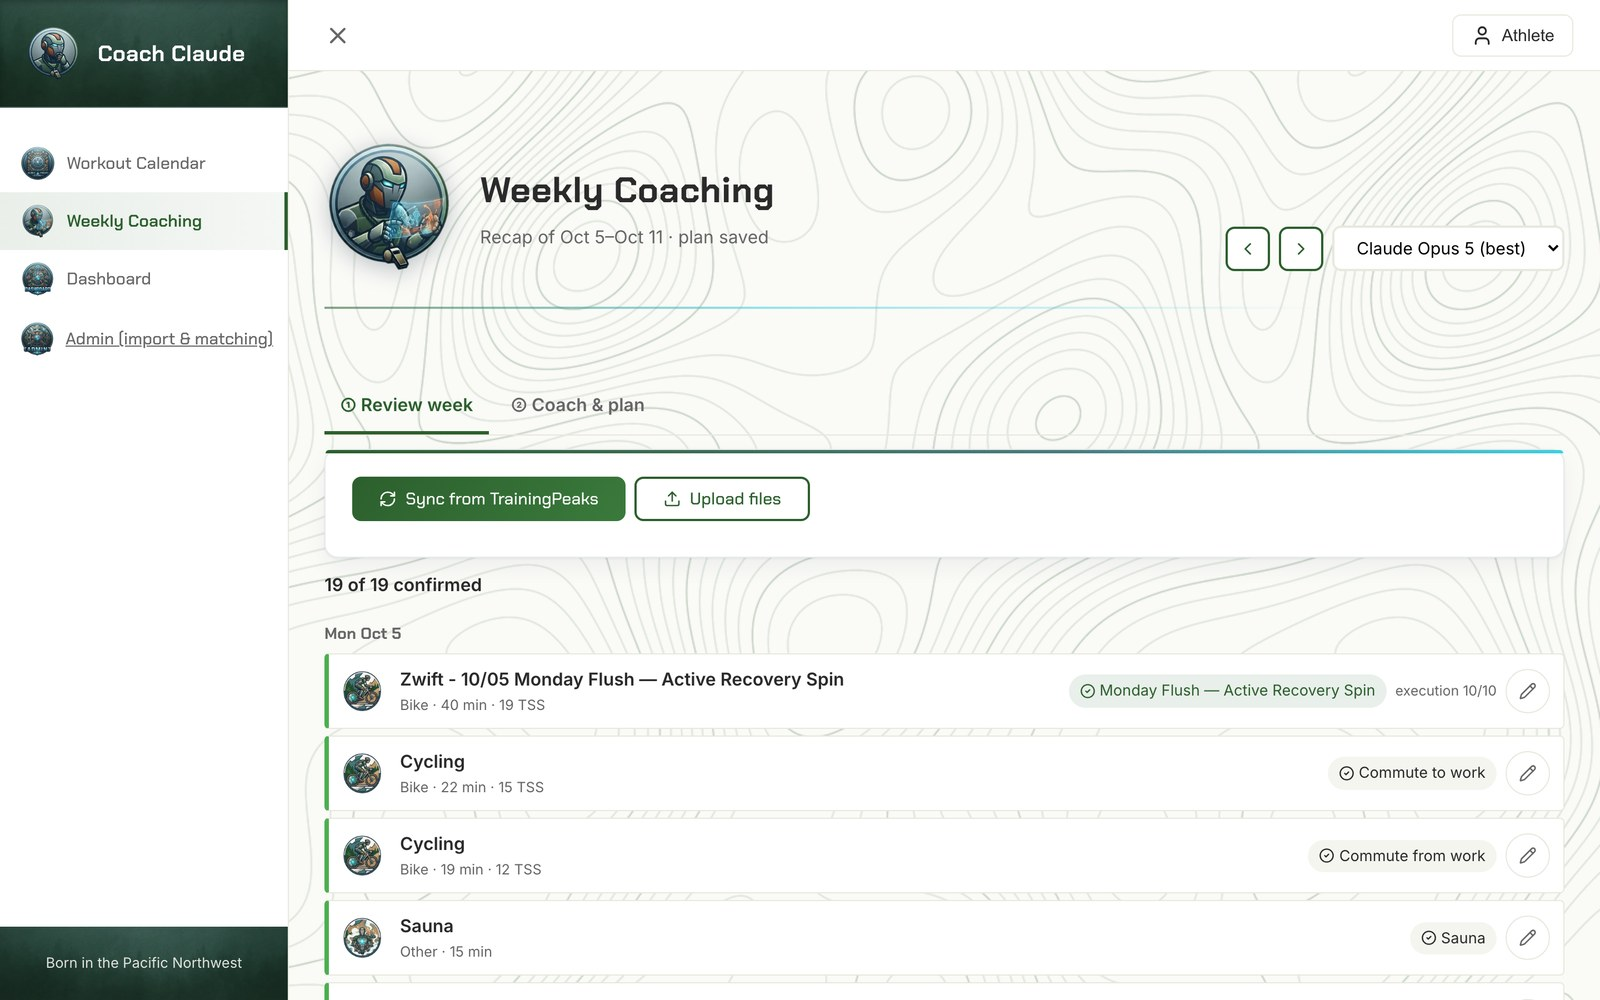
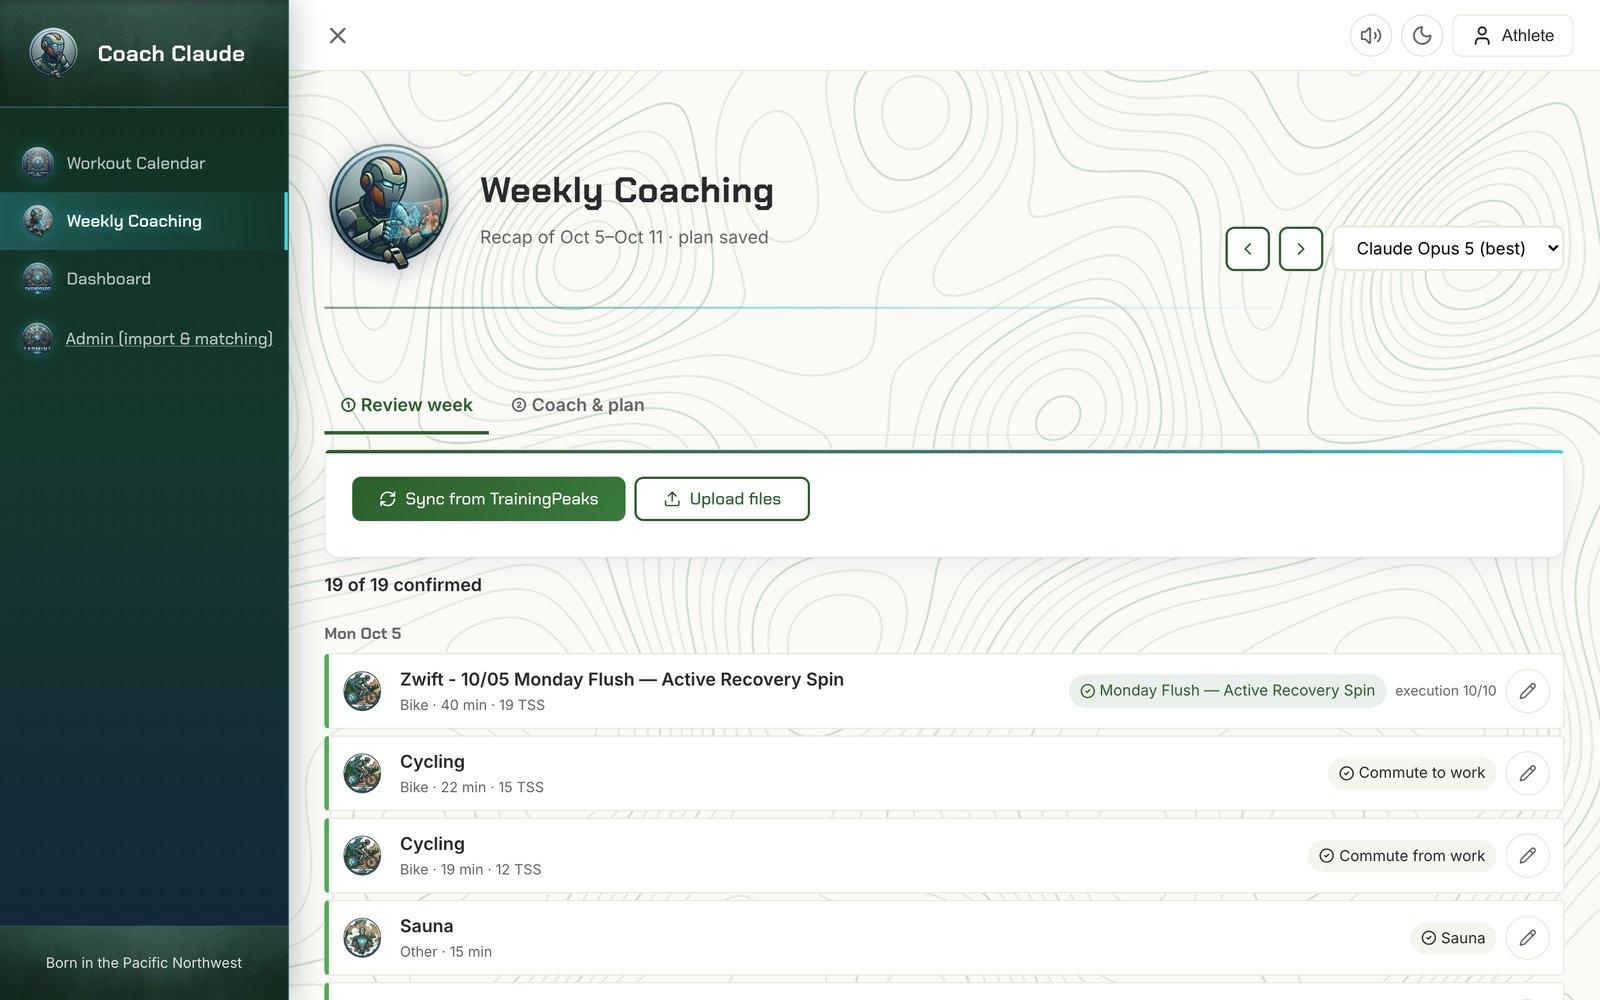
README: tour of the app, key sessions, KPI hover cards, dark mode; fresh screenshots
Adds a 'The app' section (calendar with weather, workout view, review and coach,
dashboard, self-explaining numbers, look and feel), new screenshots taken from
the live app, updated project figures and test counts, Open-Meteo in the
architecture diagram, and a field note on the mislabelled-interval regression.

Changed region(s): [[0.0, 0.0, 0.1875, 0.992], [0.8438, 0.031, 0.875, 0.062]]

diff --git a/README.md b/README.md
@@ -33,13 +33,47 @@ It began as a weekend project in January 2025. I rebuilt it in October 2026 afte
 
 > **The principle the rebuild is built on:** compute everything that can be computed. Fitness, fatigue, ramp rate, execution quality and FTP are deterministic. The language model reasons, asks questions and explains, but it works inside numbers it is handed and never grades or invents them.
 
-| 20 months | 727 | 708 | 5,772 | 798 | 66 |
+| 21 months | 762 | 738 | 5,898 | 837 | 89 |
 |:---:|:---:|:---:|:---:|:---:|:---:|
-| continuous data, Feb 2025 → today | completed workouts | FIT files parsed (Zwift + Garmin) | daily biometric records (HRV · RHR · sleep · Body Battery) | prescribed sessions across 82 planned weeks | automated tests run on every push |
+| continuous data, Feb 2025 → today | completed workouts | FIT files parsed (Zwift + Garmin) | daily biometric records (HRV · RHR · sleep · Body Battery) | prescribed sessions across 85 planned weeks | automated tests run on every push |
 
 <p align="center">
   <img src="docs/images/calendar.jpg" alt="Training calendar: a completed week with execution scores on each structured session, commutes and saunas recorded as unplanned" width="100%">
-  <br><sub><i>A completed week: each structured ride carries its computed execution score; commutes, saunas and strength are matched to the plan or marked as unplanned.</i></sub>
+</p>
+<p align="center">
+  <sub><i>A week on the calendar: a forecast chip on every day (wet days tinted), a badge per session type, and each structured ride's computed execution score. Commutes and saunas are matched to the plan or marked as unplanned.</i></sub>
+</p>
+
+---
+
+## 🖥 The app
+
+The training app is built to be used daily, on a laptop at the desk or a phone on the trainer, and to explain itself.
+
+| Area | What it does |
+|---|---|
+| **Calendar** | The week at a glance with a forecast chip on each day, a badge per session type, execution scores, and `?week=` deep links to any week. Open a day for a hero header and the full session: target-vs-actual power chart, interval breakdown, and for strength and mobility days every movement with its own countdown timer. Any day has an **Ask the coach** thread for fueling, substitutions or "what is this movement?" |
+| **Weekly review → coach** | Sunday starts with a review step (confirm each session against its planned workout), then the coaching conversation, then the saved plan, which becomes Zwift files. The coach has an avatar that rocks and sends out rings while it answers; a referee whistle sounds when the plan is saved (there is a mute switch). |
+| **Dashboard** | *Today's call* (green light, easy or rest, from readiness and form), the KPI tiles, weekly load and fitness charts, a **consistency** ribbon, **achievements** as medals with a countdown to the next target, the power curve, and a card per kind of key session. |
+| **Self-explaining numbers** | Hover (or tap, or focus) any KPI tile for what it means, a plain-language reading of today's value, and a link to the **metric guide**: how each number is calculated here, how to read it, what the coach does with it, and where it misleads. |
+| **Look and feel** | Chakra Petch display type over Inter, a topographic page background, commissioned badge art for every section and session type, light and dark themes that follow the device, and quiet motion that respects reduced-motion settings. |
+
+<p align="center">
+  <img src="docs/images/workout.jpg" alt="An opened workout: the cycling badge as a hero on a dark forest header, with the session title and type, minutes and TSS chips" width="100%">
+</p>
+
+<p align="center">
+  <img src="docs/images/kpi-hover.jpg" alt="Hovering the Form (TSB) tile: a card explains the metric, reads today's value as Fresh, and links to the full explanation" width="88%">
+</p>
+<p align="center">
+  <sub><i>Hover any KPI tile: what it measures, what today's value means, and a link to the full explanation.</i></sub>
+</p>
+
+<p align="center">
+  <img src="docs/images/dark.jpg" alt="The dashboard in dark mode" width="88%">
+</p>
+<p align="center">
+  <sub><i>Dark mode: the dashboard panels were already dark; the rest follows.</i></sub>
 </p>
 
 ---
@@ -121,13 +155,22 @@ The app's FTP follows that value automatically. A Zwift FTP unchanged for 6 week
 
 | Signal | How it's computed | Why it matters |
 |---|---|---|
-| **Progression ledger** | Every structured ride is classified by archetype (threshold, sweet spot, VO2max, over/under, tempo, endurance). For each one it records work-interval structure, average watts, normalized power, %FTP and execution score ([`progression.py`](src/utils/progression.py)). | The coach sees a trajectory such as `3×12 @ 279W → 3×15 @ 284W` instead of an aggregate, and can progress *within* a type. Silent regressions become visible. |
+| **Progression ledger** | Every structured ride is classified by archetype (threshold, sweet spot, VO2max, over/under, tempo, endurance). For each one it records work-interval structure, average watts, normalized power, %FTP and execution score ([`progression.py`](src/utils/progression.py)). "Work" means the sustained hard intervals, judged by their prescribed targets, so openers and a Zone 2 flush don't count. | The coach sees a trajectory such as `3×12 @ 279W → 3×15 @ 284W` instead of an aggregate, and can progress *within* a type. Silent regressions become visible. |
 | **Mean-max power curve** | Best rolling 5 s / 1 m / 5 m / 20 m / 60 m power per ride, compared over 90-day windows against the same window a year earlier. | Answers "am I fitter than last year?" with data. It also feeds a power-curve FTP estimate that flags divergence from the working FTP. |
 | **Readiness** | Last 7 days of HRV, resting HR, sleep and Body Battery against a **60-day median baseline**, with plain-language flags (for example HRV ≤ −10 % or RHR ≥ +5 %). | Lets the coach tell a strategic recovery week from a reactive one. |
 
 <p align="center">
-  <img src="docs/images/dashboard.jpg" alt="Training dashboard: CTL, ATL, TSB, ramp rate, Zwift FTP and readiness tiles; weekly TSS and CTL charts; best power over 90 days; progression tables per workout archetype" width="75%">
-  <br><sub><i>The dashboard: load and readiness tiles, weekly TSS against end-of-week CTL, the 90-day power curve, and progression for each workout type.</i></sub>
+  <img src="docs/images/dashboard.jpg" alt="Training dashboard: KPI tiles, today's call, weekly TSS and CTL charts, consistency ribbon, achievements as medals, best power over 90 days and key-session cards" width="75%">
+</p>
+<p align="center">
+  <sub><i>The dashboard: load and readiness tiles, today's call, weekly TSS against end-of-week CTL, consistency, achievements and the 90-day power curve.</i></sub>
+</p>
+
+<p align="center">
+  <img src="docs/images/key-sessions.jpg" alt="Key sessions: a card per session type with latest average power, change since the last session, a trend line, best ever and execution dots" width="88%">
+</p>
+<p align="center">
+  <sub><i>Key sessions: the latest average power for each kind of session, the change since last time, the trend, the best ever and an execution dot per session.</i></sub>
 </p>
 
 ---
@@ -170,6 +213,7 @@ flowchart LR
         TP[TrainingPeaks<br/>web export]
         RX[TrainingPeaks<br/>strength feed]
         FIT[Garmin + Zwift<br/>FIT files]
+        WX[Open-Meteo<br/>forecast]
     end
 
     subgraph Beelink["Home server (Windows · Docker)"]
@@ -186,6 +230,7 @@ flowchart LR
     ZW[Zwift on the Mac<br/>.zwo at 05:00]
 
     TP & RX & FIT --> SYNC --> LINK --> DB
+    WX --> API
     DB <--> CALC
     CALC --> API
     DB <--> API
@@ -201,7 +246,7 @@ flowchart LR
 | Storage | SQLite with an ordered migration runner and a `schema_version` table |
 | Computation | Plain Python: no LLM in the numeric path |
 | API | FastAPI: REST, Server-Sent Events for the coach, background jobs for sync and save |
-| Frontend | React 19, Vite, TanStack Query, Recharts; Streamlit kept as an admin surface |
+| Frontend | React 19, Vite, react-router, TanStack Query, Recharts, Web Audio for sounds, self-hosted fonts; Streamlit kept as an admin surface |
 | AI | Claude Opus 5 (coach, tool use, prompt caching), Claude Sonnet 5 (planned-ride narratives), Gemini (unplanned rides over an hour) |
 | Delivery | GitHub Actions runs the tests, builds images and pushes them to GHCR. The server **pulls** a pinned commit, backs up the database first, and health-checks after. |
 | Operations | Nightly sync, 05:00 Zwift delivery, a 10-minute Docker watchdog, and background failures surfaced in the UI |
@@ -217,6 +262,7 @@ Every one of these bugs was **silent**: a wrong key or column returned null, and
 - **UTC vs local time.** Garmin and Zwift record UTC, but TrainingPeaks days are Pacific. Evening commutes were attached to the next day's sessions. **Lesson:** convert to the athlete's local date before any join.
 - **A read path that wrote.** A weekly summary "helpfully" attached any same-day FIT file to sessions without one and saved the link. A sauna inherited a 4-hour gravel ride, and the coach saw 735 TSS for a 520 TSS week. **Lesson:** derived joins belong in one matcher; summaries must be read-only.
 - **Re-imports must keep identity.** The nightly re-import deletes and re-inserts rows. Without restoring ids and user decisions, it silently undid the athlete's Sunday review and detached analyses. **Lesson:** test idempotency by running everything twice.
+- **A mislabelled interval became a fake regression.** Intervals were tagged "work" by name, so a 1-minute opener and a Zone 2 flush counted as work. A 285 W sweet-spot session was recorded as 246 W, a 38 W "drop" that never happened. Work is now the sustained hard intervals judged by their prescribed targets, with a test on that exact session. **Lesson:** when a chart shows a surprise, check the inputs before believing the trend.
 - **Ask the data before tuning the prompt.** The "coaching doesn't progress" complaint looked like a prompt problem. It was a missing model of training load. Compute the state, then let the model reason over it.
 
 ---
@@ -257,8 +303,9 @@ src/
     ai_chat_session.py  the weekly coaching session
     trainingpeaks_sync.py, nightly_sync.py, week_review.py
   ui/             Streamlit admin
-frontend/         React 19 training app (calendar, coaching, dashboard)
-tests/            pytest suite (54) · frontend/src/**/*.test.js (12)
+frontend/         React 19 app: pages (calendar, coaching, dashboard, metric guide), components,
+                  lib/ (metric glossary, readiness call, sounds, theme, weather)
+tests/            pytest suite (60) · frontend/src/**/*.test.js (29)
 docs/             runbook, architecture notes, images
 ```
 </details>
